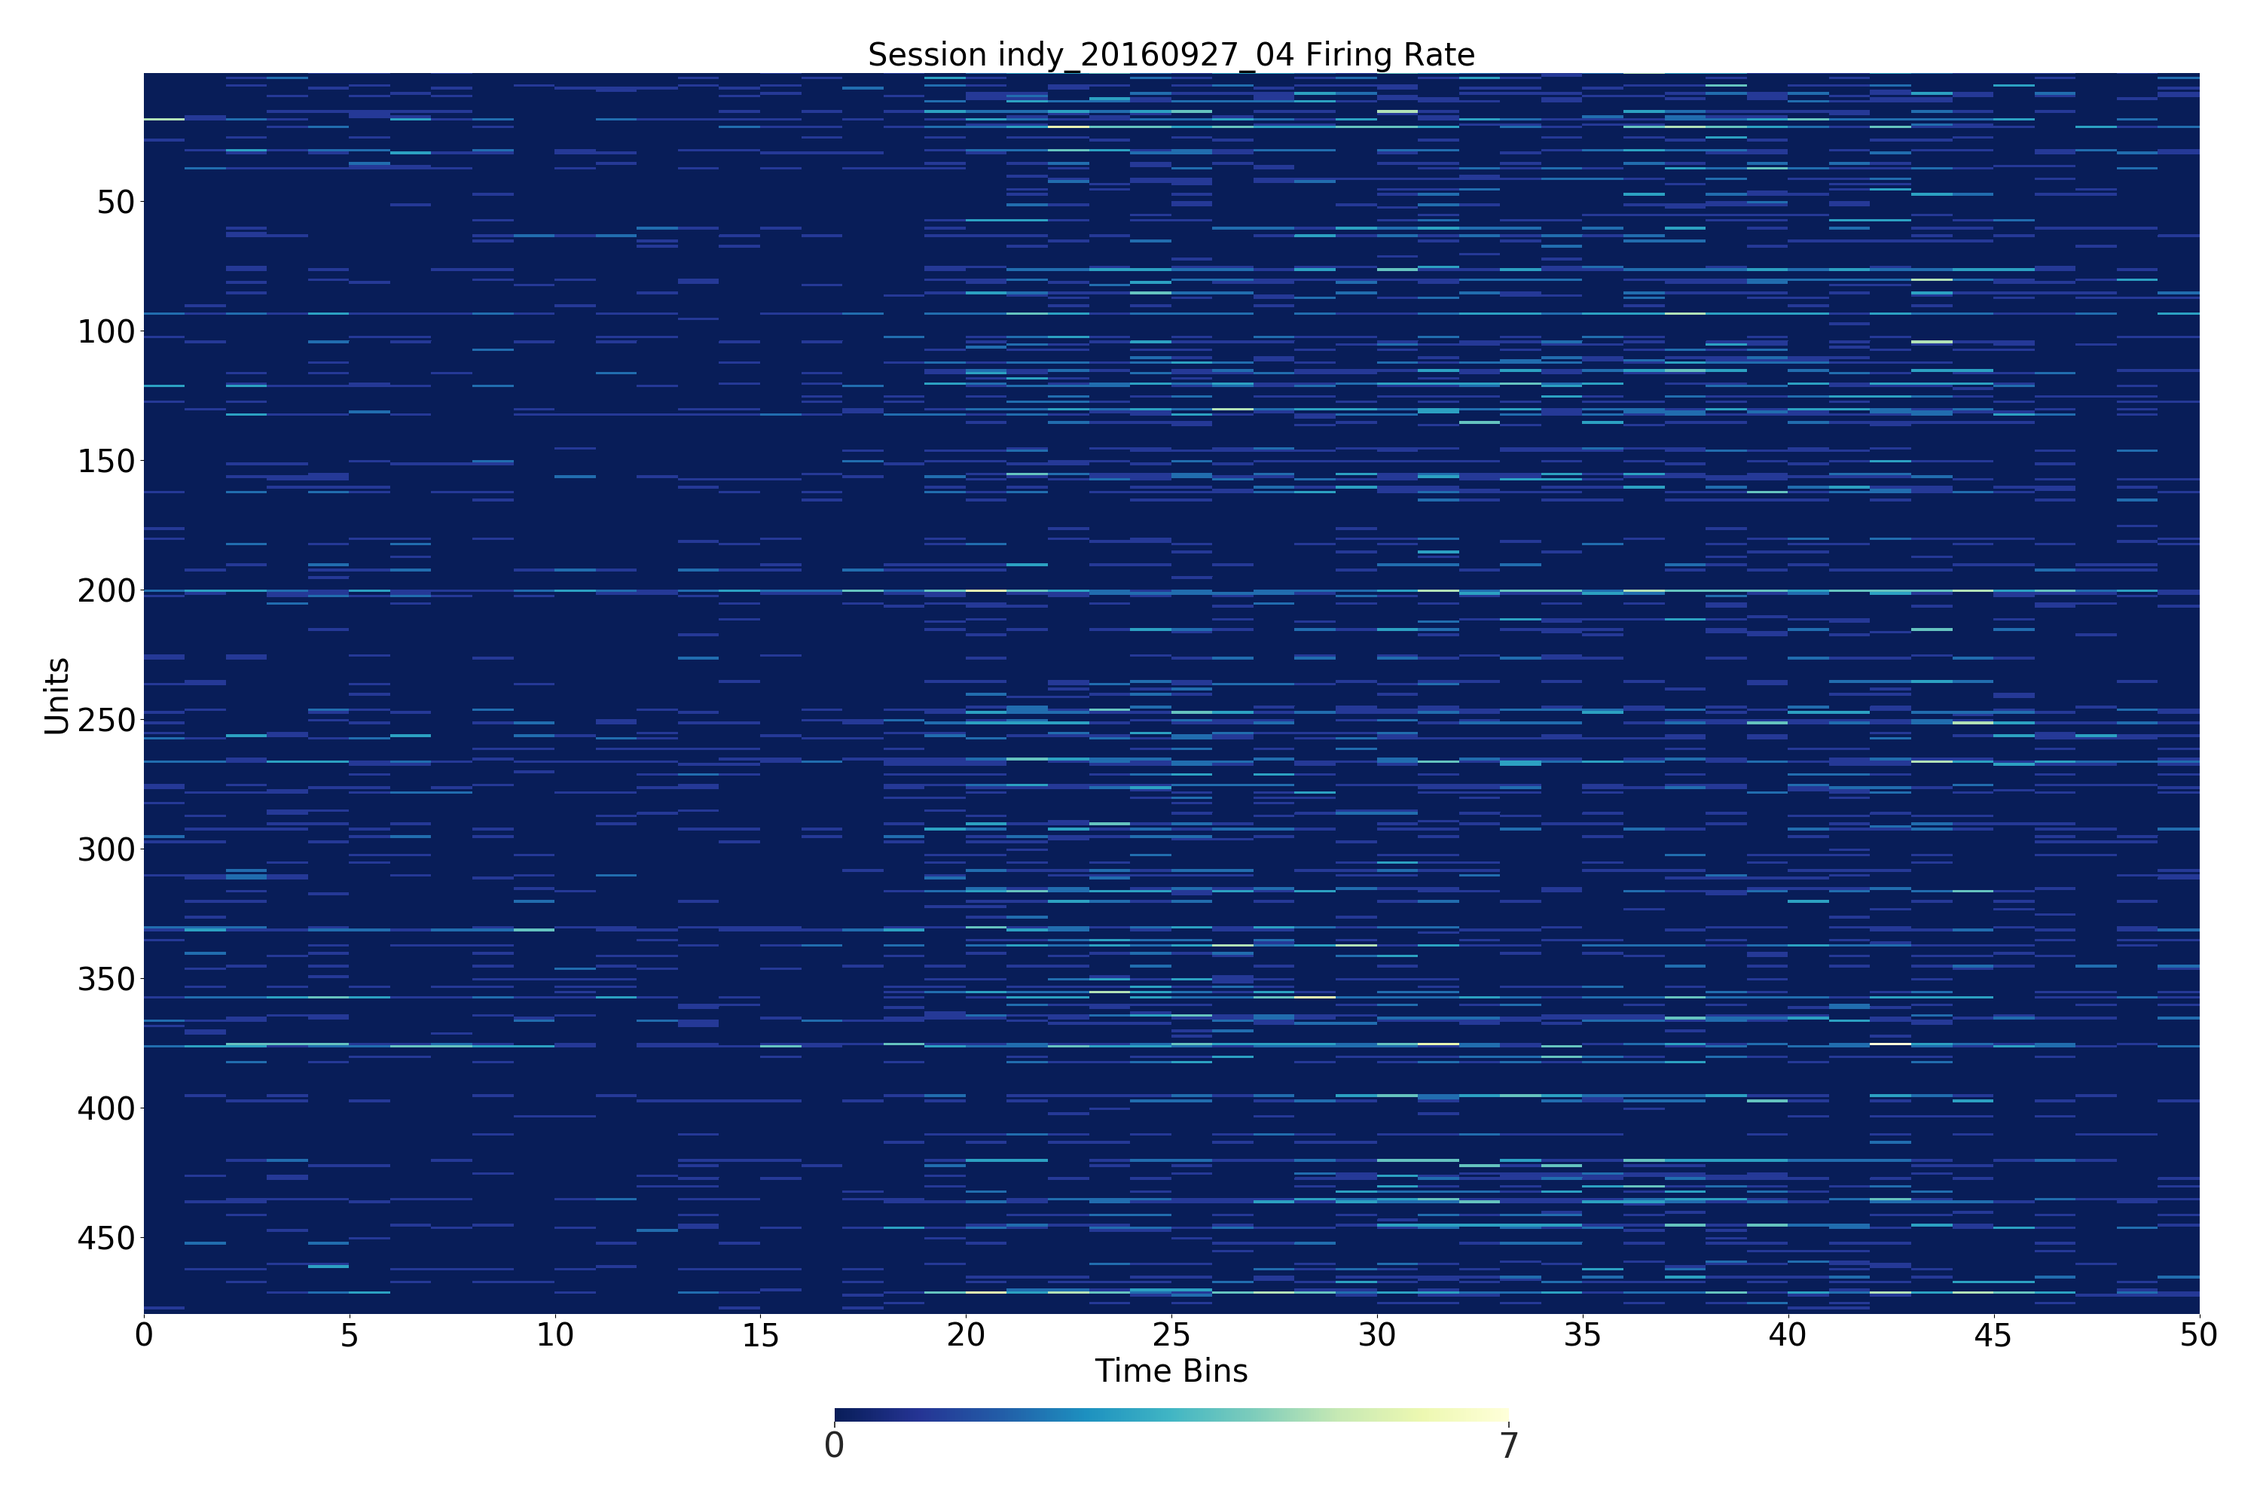
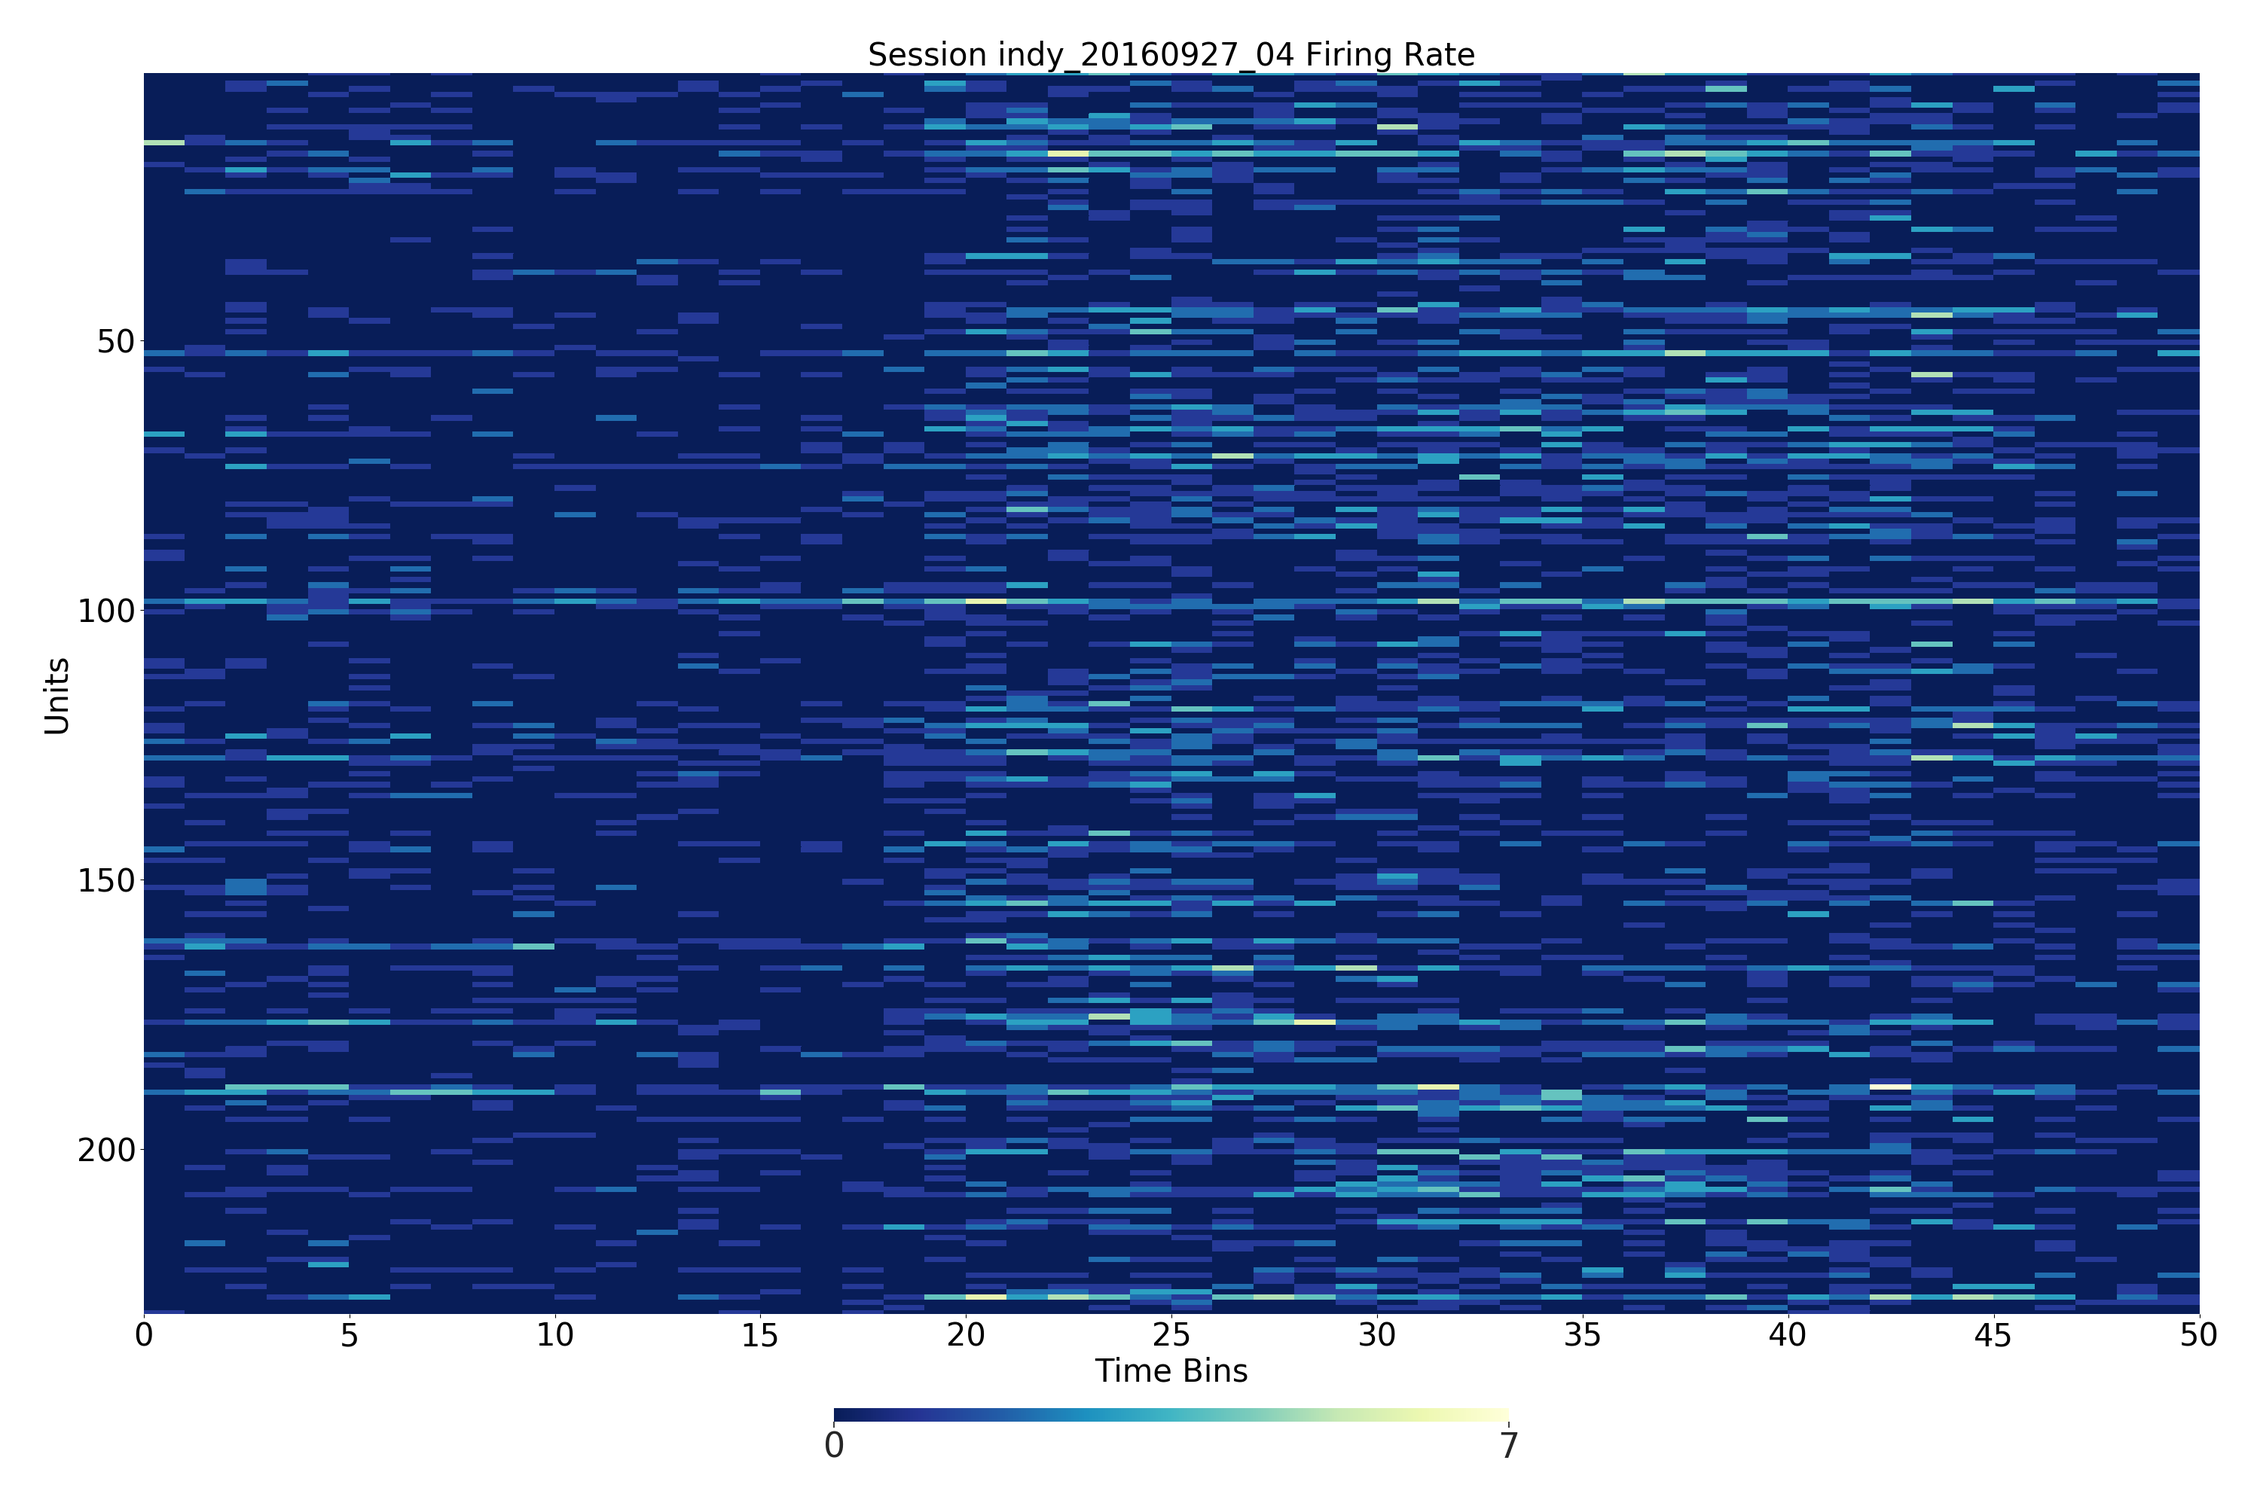
new fr heatmap and thesis

diff --git a/Python_code/Pytorch/Plotting_Firing_Rate_Heatmap.py b/Python_code/Pytorch/Plotting_Firing_Rate_Heatmap.py
@@ -71,7 +71,7 @@ include_hash_unit=my_parameters.include_hash_unit
 print('In session '+ session_name + ': ' + '\n' )
 
 # Load Spike Firing Rate
-[firing_rate_cell, channel_number, testing_data_index, time_stamp_64ms, unit_number]=mat_file_processing.get_spike_bins_matrix(file_name_1, the_sampling_rate, time_stamp_64ms, include_hash_unit)
+[firing_rate_cell, channel_number, testing_data_index, time_stamp_64ms, unit_number] = mat_file_processing.get_spike_bins_matrix(file_name_1, the_sampling_rate, time_stamp_64ms, include_hash_unit)
 
 # Get channel and unit numbers
 channel_numbers_in_this_dataset = channel_number
@@ -86,9 +86,14 @@ else:
 [X_for_training, X_for_prediction, 
 x_position_label_training, x_position_label_testing, y_position_label_training, y_position_label_testing, z_position_label_training, z_position_label_testing,
 x_velocity_label_training, x_velocity_label_testing, y_velocity_label_training, y_velocity_label_testing, z_velocity_label_training, z_velocity_label_testing,
-x_acceleration_label_training, x_acceleration_label_testing, y_acceleration_label_training, y_acceleration_label_testing, z_acceleration_label_training, z_acceleration_label_testing]=mat_file_processing.create_empty_traing_and_testing_label(feature_numbers)
+x_acceleration_label_training, x_acceleration_label_testing, y_acceleration_label_training, y_acceleration_label_testing, z_acceleration_label_training, z_acceleration_label_testing,
+x_position_target_training, x_position_target_testing, y_position_target_training, y_position_target_testing ]=mat_file_processing.create_empty_traing_and_testing_label(feature_numbers)
 
-[time_stamp_64ms, x_position_label, y_position_label, z_position_label, x_velocity_label, y_velocity_label, z_velocity_label, x_acceleration_label, y_acceleration_label,  z_acceleration_label]=mat_file_processing.get_labels(file_name_1, the_sampling_rate, time_stamp_64ms)
+[time_stamp_64ms, 
+x_position_label, y_position_label, z_position_label, 
+x_velocity_label, y_velocity_label, z_velocity_label, 
+x_acceleration_label, y_acceleration_label, z_acceleration_label,
+x_position_target, y_position_target] = mat_file_processing.get_labels(file_name_1, the_sampling_rate, time_stamp_64ms)
 
 # Extract firing_rate_cell with rows have length bigger than zero
 firing_rate_final=[] # not[[]]
@@ -148,25 +153,28 @@ print('\n')
 [X_for_training, X_for_prediction,
 x_position_label_training, x_position_label_testing, y_position_label_training, y_position_label_testing, z_position_label_training, z_position_label_testing,
 x_velocity_label_training, x_velocity_label_testing, y_velocity_label_training, y_velocity_label_testing, z_velocity_label_training, z_velocity_label_testing,
-x_acceleration_label_training, x_acceleration_label_testing, y_acceleration_label_training, y_acceleration_label_testing, z_acceleration_label_training, z_acceleration_label_testing] = mat_file_processing.cross_session_data_concatenation(
-feature_numbers_of_firing_rate, X, testing_data_index, X_for_training, X_for_prediction,
-x_position_label, y_position_label, z_position_label, x_velocity_label, y_velocity_label, z_velocity_label, x_acceleration_label, y_acceleration_label, z_acceleration_label,
+x_acceleration_label_training, x_acceleration_label_testing, y_acceleration_label_training, y_acceleration_label_testing, z_acceleration_label_training, z_acceleration_label_testing,
+x_position_target_training, x_position_target_testing, y_position_target_training, y_position_target_testing] = mat_file_processing.cross_session_data_concatenation(
+session_name, feature_numbers_of_firing_rate, X, testing_data_index, X_for_training, X_for_prediction,
+x_position_label, y_position_label, z_position_label, x_velocity_label, y_velocity_label, z_velocity_label, x_acceleration_label, y_acceleration_label, z_acceleration_label, x_position_target, y_position_target,
 x_position_label_training, x_position_label_testing, y_position_label_training, y_position_label_testing, z_position_label_training, z_position_label_testing,
 x_velocity_label_training, x_velocity_label_testing, y_velocity_label_training, y_velocity_label_testing, z_velocity_label_training, z_velocity_label_testing,
-x_acceleration_label_training, x_acceleration_label_testing, y_acceleration_label_training, y_acceleration_label_testing, z_acceleration_label_training, z_acceleration_label_testing)
-
+x_acceleration_label_training, x_acceleration_label_testing, y_acceleration_label_training, y_acceleration_label_testing, z_acceleration_label_training, z_acceleration_label_testing,
+x_position_target_training, x_position_target_testing, y_position_target_training, y_position_target_testing)
 print('shape of X_for_training before', X_for_training.shape)
 
 # Processing max orders
-# order_num=max_timestep-1
+# order_num = max_timestep-1
 # [X_for_training, X_for_prediction,
 # x_position_label_training, x_position_label_testing, y_position_label_training, y_position_label_testing, z_position_label_training, z_position_label_testing,
 # x_velocity_label_training, x_velocity_label_testing, y_velocity_label_training, y_velocity_label_testing, z_velocity_label_training, z_velocity_label_testing,
-# x_acceleration_label_training, x_acceleration_label_testing, y_acceleration_label_training, y_acceleration_label_testing, z_acceleration_label_training, z_acceleration_label_testing] = mat_file_processing.max_order_preparation(
-# order_num, feature_numbers, X_for_training, X_for_prediction,
+# x_acceleration_label_training, x_acceleration_label_testing, y_acceleration_label_training, y_acceleration_label_testing, z_acceleration_label_training, z_acceleration_label_testing,
+# x_position_target_training, x_position_target_testing, y_position_target_training, y_position_target_testing] = mat_file_processing.max_order_preparation(
+# session_name, order_num, feature_numbers, X_for_training, X_for_prediction,
 # x_position_label_training, x_position_label_testing, y_position_label_training, y_position_label_testing, z_position_label_training, z_position_label_testing,
 # x_velocity_label_training, x_velocity_label_testing, y_velocity_label_training, y_velocity_label_testing, z_velocity_label_training, z_velocity_label_testing,
-# x_acceleration_label_training, x_acceleration_label_testing, y_acceleration_label_training, y_acceleration_label_testing, z_acceleration_label_training, z_acceleration_label_testing)
+# x_acceleration_label_training, x_acceleration_label_testing, y_acceleration_label_training, y_acceleration_label_testing, z_acceleration_label_training, z_acceleration_label_testing,
+# x_position_target_training, x_position_target_testing, y_position_target_training, y_position_target_testing)
 
 print('shape of X_for_training after', X_for_training.shape)
 print('shape of x_velocity_label_training after', x_velocity_label_training.shape)
@@ -325,6 +333,14 @@ plt.title( 'Session ' + session_name + ' Firing Rate', fontsize=30, color="black
 # plt.title('test')
 sns.set(font_scale=3)
 data = torch.transpose( testing_x[reduce_time_bin:reduce_time_bin*2,:], 0, 1)
+
+# Eliminate empty units
+valid_rows=[]
+for row_idx in range(data.size(0)):
+    if not torch.all( data[row_idx,:] ==0 ):
+        valid_rows.append(row_idx)
+data = data[valid_rows,:]
+
 # https://matplotlib.org/3.2.2/api/_as_gen/matplotlib.pyplot.colorbar.html
 cbar_kws={"orientation": "horizontal", "shrink": 0.5, "aspect":50,"use_gridspec":"True", "fraction":0.01 , "pad":0.07, 'ticks' : [ torch.min(data), torch.max(data) ]}
 
@@ -407,7 +423,7 @@ ax[3].set_xlim([ 0, len( testing_y_6[reduce_time_bin:reduce_time_bin*2] ) ])
 
 
 # plt.tight_layout()
-plt.savefig( plot_path+'/'+ 'attention_map' +'.png' )
+plt.savefig( plot_path+'/'+ 'Firing_rate_heatmap_and_all_kinematic_variables' +'.png' )
 
 
 plt.cla()

diff --git a/Python_code/Deep_Learning_Models/Attention_Map_Plotting.py b/Python_code/Deep_Learning_Models/Attention_Map_Plotting.py
@@ -69,6 +69,14 @@ class Plotting():
         f, ax = plt.subplots(3, 1, gridspec_kw={'height_ratios': [4,3,2],  "hspace":0.2 ,"left":0.1, "right":0.9, "top":0.95, "bottom":0.05} )
 
         firing_rate_data = firing_rate_collector.transpose()
+
+        # Eliniate empty units
+        valid_rows=[]
+        for row_idx in range(firing_rate_data.shape[0]):
+            if not np.all( firing_rate_data[row_idx,:] ==0 ):
+                valid_rows.append(row_idx)
+        firing_rate_data = firing_rate_data[valid_rows,:]
+
         cbar_kws_firingrate = {"orientation": "horizontal", "shrink": 0.5, "aspect":40,"use_gridspec":"True", "fraction":0.01 , "pad":0.03, 'ticks' : [ np.min(firing_rate_data),  4 ]}
         sns.heatmap( data=firing_rate_data , ax=ax[0], vmax=4, cbar_kws=cbar_kws_firingrate, cmap='YlGnBu_r', yticklabels=True, xticklabels=False ) # norm=LogNorm()
     
@@ -148,6 +156,14 @@ class Plotting():
         f, ax = plt.subplots(3, 1, gridspec_kw={'height_ratios': [4,3,2],  "hspace":0.2 ,"left":0.1, "right":0.9, "top":0.95, "bottom":0.05} )
 
         firing_rate_data = firing_rate_collector.transpose()
+
+        # Eliniate empty units
+        valid_rows=[]
+        for row_idx in range(firing_rate_data.shape[0]):
+            if not np.all( firing_rate_data[row_idx,:] ==0 ):
+                valid_rows.append(row_idx)
+        firing_rate_data = firing_rate_data[valid_rows,:]
+
         cbar_kws_firingrate = {"orientation": "horizontal", "shrink": 0.5, "aspect":40,"use_gridspec":"True", "fraction":0.01 , "pad":0.03, 'ticks' : [ np.min(firing_rate_data),  4 ]}
         sns.heatmap( data=firing_rate_data , ax=ax[0], vmax=4, cbar_kws=cbar_kws_firingrate, cmap='YlGnBu_r', yticklabels=True, xticklabels=False ) # norm=LogNorm()
     
@@ -243,6 +259,14 @@ class Plotting():
 
 
         firing_rate_data = firing_rate_collector.transpose()
+
+        # Eliniate empty units
+        valid_rows=[]
+        for row_idx in range(firing_rate_data.shape[0]):
+            if not np.all( firing_rate_data[row_idx,:] ==0 ):
+                valid_rows.append(row_idx)
+        firing_rate_data = firing_rate_data[valid_rows,:]
+
         cbar_kws_firingrate = {"orientation": "horizontal", "shrink": 0.5, "aspect":40,"use_gridspec":"True", "fraction":0.01 , "pad":0.03, 'ticks' : [ np.min(firing_rate_data),  4 ]}
         sns.heatmap( data=firing_rate_data , ax=ax[0], vmax=4, cbar_kws=cbar_kws_firingrate, cmap='YlGnBu_r', yticklabels=True, xticklabels=False ) # norm=LogNorm()
     
@@ -336,6 +360,14 @@ class Plotting():
 
 
         firing_rate_data = firing_rate_collector.transpose()
+
+        # Eliniate empty units
+        valid_rows=[]
+        for row_idx in range(firing_rate_data.shape[0]):
+            if not np.all( firing_rate_data[row_idx,:] ==0 ):
+                valid_rows.append(row_idx)
+        firing_rate_data = firing_rate_data[valid_rows,:]
+
         cbar_kws_firingrate = {"orientation": "horizontal", "shrink": 0.5, "aspect":40,"use_gridspec":"True", "fraction":0.01 , "pad":0.03, 'ticks' : [ np.min(firing_rate_data),  4 ]}
         sns.heatmap( data=firing_rate_data , ax=ax[0], vmax=4, cbar_kws=cbar_kws_firingrate, cmap='YlGnBu_r', yticklabels=True, xticklabels=False ) # norm=LogNorm()
     

diff --git a/Thesis_Wu/abstract.tex b/Thesis_Wu/abstract.tex
@@ -1,6 +1,6 @@
 \noindent
 \textbf{Background:}
-\colorbox{green}{跳過}
+\todo{skip}
 \\
 \textbf{Aim:}
 Developing a state-of-the-art neural signal decoder to predict the hand movement of nonhuman primates with high prediction accuracy.
@@ -13,7 +13,7 @@ aidding researchers to design or evaluate the RNNs and provide new aspects of th
 The decoding performances in three types of kinematic variables (position, velocity, accelerateion) in both x- and y-directions have achieved higher precisions than previous studies, based on the same nonhuman dataset.
 \\
 \textbf{Conclusions:}
-\colorbox{green}{跳過}
+\todo{skip}
 \\
 \textbf{Keywords:}
 \textit{Brain-machine Interface, Spike Detection, Recurrent Neural Network, Attention Machenism}

diff --git a/Thesis_Wu/Materials_and_Methods.tex b/Thesis_Wu/Materials_and_Methods.tex
@@ -161,8 +161,7 @@ The heatmap is showing an relationship between the occurrance of movements and t
     \end{center}
 \end{figure}
 
-Some units in several channels contain no recordings during the whole session, and the value would be counted as zero in the firing rate form, so the heatmap of those units keep constant color among the time axis.
-Those empty units might seem disturbing, however it does not affect the neural network decoder performances whether we remove those units or not.
+Empty units in this session have been removed, as actual number of sorted units in each session is listed in Table \ref{tab:dataset_indy} and \ref{tab:dataset_loco}.
 
 \newpage
 \section{Deep Neural Network}

diff --git a/Thesis_Wu/chinese_abstract.tex b/Thesis_Wu/chinese_abstract.tex
@@ -1,18 +1,18 @@
 \noindent
 \CJKfakebold{研究背景:}
-\colorbox{green}{跳過}
+\todo{skip}
 \\
 \CJKfakebold{研究目標:}
-\colorbox{green}{跳過}
+\todo{skip}
 \\
 \CJKfakebold{研究方法:}
-\colorbox{green}{跳過}
+\todo{skip}
 \\
 \CJKfakebold{研究結果:}
-\colorbox{green}{跳過}
+\todo{skip}
 \\
 \CJKfakebold{研究結論:}
-\colorbox{green}{跳過}
+\todo{skip}
 \\
 \CJKfakebold{關鍵字:}
-\textit{ \colorbox{green}{跳過} }
+\textit{腦機介面}

diff --git a/Thesis_Wu/Nomenclature.tex b/Thesis_Wu/Nomenclature.tex
@@ -13,7 +13,7 @@
 \nomenclature[A]{CNN}{Convolutional Neural Network}
 \nomenclature[A]{MLP}{Multilayer Perceptron}
 \nomenclature[A]{Seq2Seq}{Sequence to Sequence}
-\makenomenclature[A]{SNR}{Signal-to-noise Ratio}
+\nomenclature[A]{SNR}{Signal-to-noise Ratio}
 %% Dynamical compensation
 \nomenclature[B]{$x$}{System state (scalar)}
 \nomenclature[B]{$\bx$}{System state (vector)}

diff --git a/Thesis_Wu/Results_and_Discussion.tex b/Thesis_Wu/Results_and_Discussion.tex
@@ -47,3 +47,4 @@ First we compute the mean of the observed data:
 
 \noindent and since the length of the testing data varied, weighted average is used to compute the mean performance across sessions,
 with the weights equal to the testing data length.
+\todo[inline]{test}
